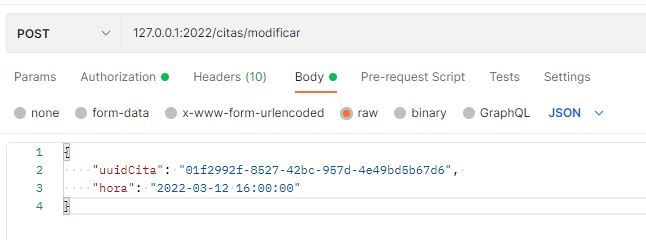
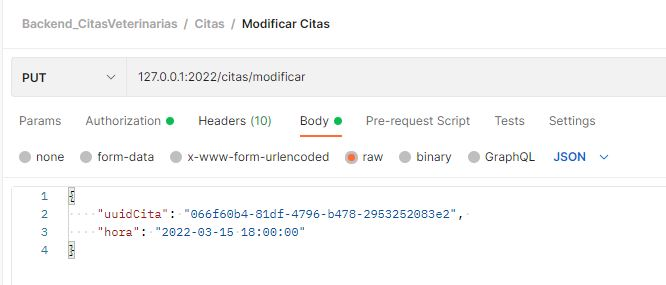
modify post for put in modificar cita

diff --git a/routes/citas.js b/routes/citas.js
@@ -17,7 +17,7 @@ router.delete('/', auth, CitasController.cancelar);
 router.post('/pendientes', auth, CitasController.pendientes);
 
 // Modificar cita
-router.post('/modificar', auth, CitasController.modificarCita);
+router.put('/modificar', auth, CitasController.modificarCita);
 
 
 module.exports = router;
